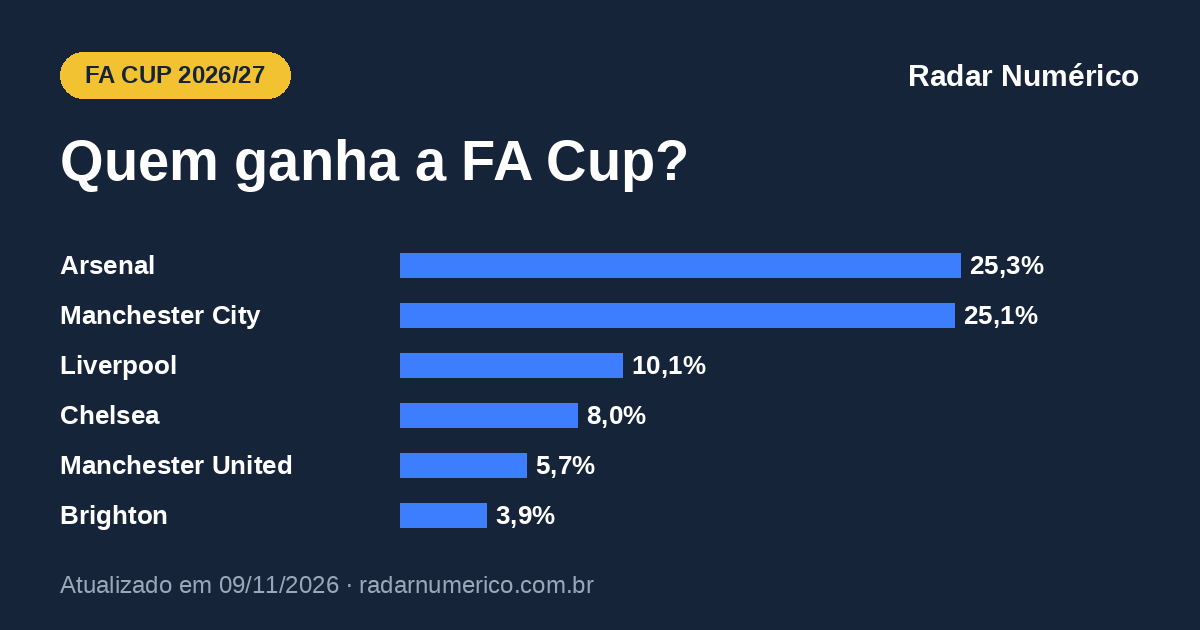
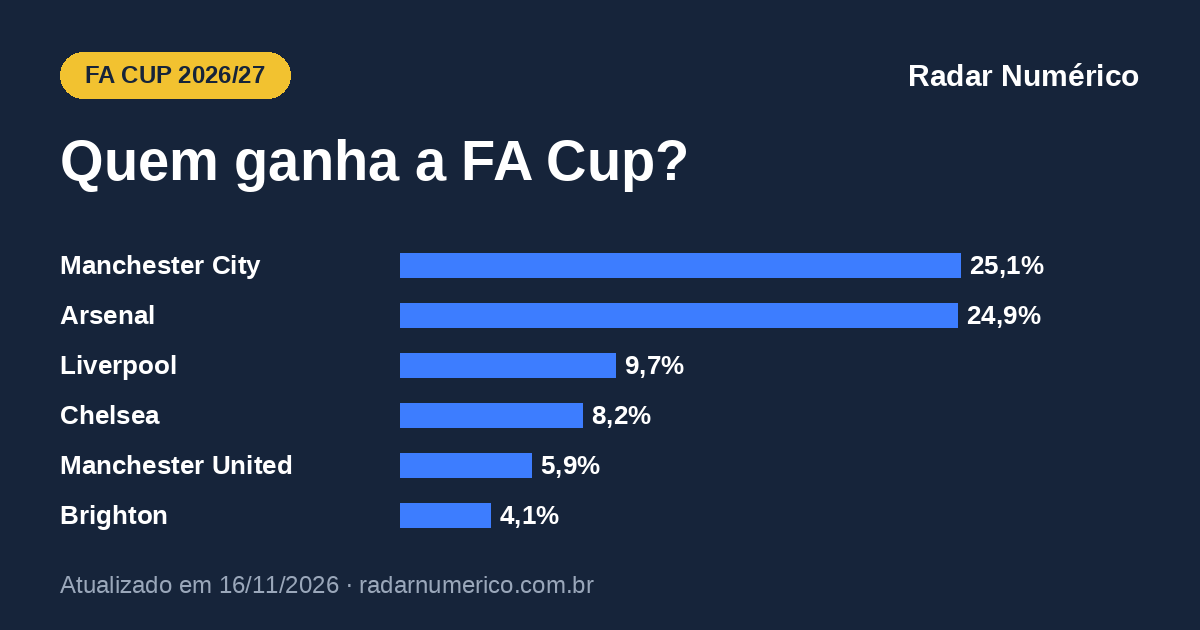
Ranking, ligas e copas europeias: atualização semanal 2026-11-16 - futebol/fa-cup
Claude-Session: https://claude.ai/code/session_014c9M3pK5duiRyMmHPvLuVq

diff --git a/futebol/fa-cup/index.html b/futebol/fa-cup/index.html
@@ -13,11 +13,11 @@
 <meta property="og:title" content="FA Cup 2026/27: chances de título de cada time">
 <meta property="og:description" content="Probabilidades da FA Cup 2026/27: chance de cada time chegar às quartas, à semifinal, à final e de ser campeão.">
 <meta property="og:url" content="https://radarnumerico.com.br/futebol/fa-cup/">
-<meta property="og:image" content="https://radarnumerico.com.br/futebol/fa-cup/og.png?v=202611091007">
+<meta property="og:image" content="https://radarnumerico.com.br/futebol/fa-cup/og.png?v=202611160810">
 <meta property="og:image:width" content="1200">
 <meta property="og:image:height" content="630">
 <meta name="twitter:card" content="summary_large_image">
-<script type="application/ld+json">{"@context": "https://schema.org", "@graph": [{"@type": "WebPage", "@id": "https://radarnumerico.com.br/futebol/fa-cup/", "url": "https://radarnumerico.com.br/futebol/fa-cup/", "name": "FA Cup 2026/27: chances de título de cada time", "description": "Probabilidades da FA Cup 2026/27: chance de cada time chegar às quartas, à semifinal, à final e de ser campeão.", "inLanguage": "pt-BR", "dateModified": "2026-11-09T10:07:00-03:00", "isPartOf": {"@type": "WebSite", "name": "Radar Numérico", "url": "https://radarnumerico.com.br/"}, "about": {"@type": "Thing", "name": "FA Cup 2026/27"}}, {"@type": "BreadcrumbList", "itemListElement": [{"@type": "ListItem", "position": 1, "name": "Radar Numérico", "item": "https://radarnumerico.com.br/"}, {"@type": "ListItem", "position": 2, "name": "FA Cup 2026/27: probabilidades", "item": "https://radarnumerico.com.br/futebol/fa-cup/"}]}]}</script>
+<script type="application/ld+json">{"@context": "https://schema.org", "@graph": [{"@type": "WebPage", "@id": "https://radarnumerico.com.br/futebol/fa-cup/", "url": "https://radarnumerico.com.br/futebol/fa-cup/", "name": "FA Cup 2026/27: chances de título de cada time", "description": "Probabilidades da FA Cup 2026/27: chance de cada time chegar às quartas, à semifinal, à final e de ser campeão.", "inLanguage": "pt-BR", "dateModified": "2026-11-16T08:10:00-03:00", "isPartOf": {"@type": "WebSite", "name": "Radar Numérico", "url": "https://radarnumerico.com.br/"}, "about": {"@type": "Thing", "name": "FA Cup 2026/27"}}, {"@type": "BreadcrumbList", "itemListElement": [{"@type": "ListItem", "position": 1, "name": "Radar Numérico", "item": "https://radarnumerico.com.br/"}, {"@type": "ListItem", "position": 2, "name": "FA Cup 2026/27: probabilidades", "item": "https://radarnumerico.com.br/futebol/fa-cup/"}]}]}</script>
 <link rel="icon" type="image/png" href="/favicon.png">
 <link rel="apple-touch-icon" href="/apple-touch-icon.png">
 <link rel="preconnect" href="https://fonts.googleapis.com">
@@ -307,7 +307,8 @@ footer.site a{color:var(--ink2)}
 .simaviso .btn{margin-left:auto;background:var(--bg)}
 .slh{display:flex;flex-wrap:wrap;align-items:end;justify-content:space-between;gap:10px 16px;margin:26px 0 12px}
 .slh h3{margin:0}
-.slh select{min-width:200px;font-size:14.5px;padding:8px 34px 8px 12px}
+.slh select{min-width:200px;max-width:100%;font-size:14.5px;padding:8px 34px 8px 12px}
+.slh>div{min-width:0;max-width:100%}
 .sl{display:grid;grid-template-columns:repeat(2,minmax(0,1fr));gap:8px 12px}
 .slj{border:1.5px solid var(--hair);padding:8px 10px;display:grid;grid-template-columns:minmax(0,1fr) auto minmax(0,1fr);gap:6px 8px;align-items:center;min-width:0}
 .slj.fix{border-color:var(--azul)}
@@ -335,6 +336,16 @@ table.cl tr:hover td{background:var(--panel)}
 .mv.s{color:var(--downfg)} .mv.d{color:var(--upfg)}
 .dl{display:block;font-size:10.5px;font-weight:700}
 .dl.bom{color:var(--downfg)} .dl.ruim{color:var(--upfg)}
+.slc{grid-column:1/-1;border:1.5px solid var(--hair);padding:10px 12px;min-width:0}
+.slc .slq{display:flex;justify-content:space-between;font-size:11px;color:var(--mute)}
+.slc p{margin:6px 0 10px;font-size:13.5px;line-height:1.45;color:var(--ink2);max-width:70ch}
+.slcb{display:flex;flex-wrap:wrap;gap:8px}
+.slco{font:inherit;font-size:14px;font-weight:700;border:1.5px solid var(--hair);background:none;color:var(--ink);padding:8px 12px;cursor:pointer;text-align:left;display:flex;flex-direction:column;gap:2px}
+.slco small{font-weight:500;font-size:11.5px;color:var(--mute)}
+.slco:hover{border-color:var(--ink2)}
+.slco.on{border-color:var(--azul);box-shadow:inset 0 0 0 1px var(--azul)}
+.slco:focus-visible{outline:2px solid var(--azul);outline-offset:2px}
+.simlink{margin:-2px 0 12px;font-size:13px} .simlink a{color:var(--ink2);font-weight:600;text-underline-offset:2px}
 @media (max-width:640px){
   .rd{grid-template-columns:1fr}
   .at,.at.n3{grid-template-columns:repeat(2,minmax(0,1fr))} .at.n1{grid-template-columns:1fr}
@@ -430,8 +441,8 @@ table.mzf td.bc{color:#fff}
 <header class="pg">
   <div class="kicker">Futebol · Inglaterra</div>
   <h1>FA Cup 2026/27: chances de título de cada time</h1>
-  <div class="selo" id="selo"><span>Atualizado em <b>09/11/2026 às 10h07</b></span><span>fase atual: <b>3ª fase</b></span><span>44 times vivos</span></div>
-  <p class="lede">O favorito ao título da FA Cup é o <b>Arsenal</b>, com 25,3%, seguido por Manchester City (25,1%) e Liverpool (10,1%). Calculamos, para os 44 times vivos, a chance de chegar a cada fase, simulando os jogos já marcados e o sorteio das fases seguintes 20 mil vezes. O campeão ganha vaga na Liga Europa.</p>
+  <div class="selo" id="selo"><span>Atualizado em <b>16/11/2026 às 08h10</b></span><span>fase atual: <b>3ª fase</b></span><span>44 times vivos</span></div>
+  <p class="lede">O favorito ao título da FA Cup é o <b>Manchester City</b>, com 25,1%, seguido por Arsenal (24,9%) e Liverpool (9,7%). Calculamos, para os 44 times vivos, a chance de chegar a cada fase, simulando os jogos já marcados e o sorteio das fases seguintes 20 mil vezes. O campeão ganha vaga na Liga Europa.</p>
 </header>
 
 <section class="g" id="s-trilha">
@@ -489,7 +500,7 @@ table.mzf td.bc{color:#fff}
 
 <div class="metod">
   <p class="marca">Radar Numérico</p>
-  <p id="rodape">Probabilidades da FA Cup 2026/27 atualizadas em 09/11/2026 às 10h07.</p>
+  <p id="rodape">Probabilidades da FA Cup 2026/27 atualizadas em 16/11/2026 às 08h10.</p>
   <p>Como calculamos: um algoritmo desenvolvido pelo economista Augusto Pellegrini estima a força de cada time a partir das cotações de mercado de todos os seus jogos recentes, em todas as competições. Simulamos a copa 20 mil vezes: os jogos já marcados e, depois, o sorteio de cada fase. Empate em jogo único vai à prorrogação e aos pênaltis. Fonte: Radar Numérico.</p>
 </div>
 </main>
@@ -498,7 +509,7 @@ table.mzf td.bc{color:#fff}
 <div id="tip" role="tooltip"></div>
 <div id="toast" role="status"></div>
 <script>
-const D = {"slug":"fa-cup","nome":"FA Cup","gerado_em":"2026-11-09T10:07","tams":[64,32,16,8,4,2,1],"rot":["3ª fase","4ª fase","5ª fase","Quartas","Semifinal","Final","Campeão"],"atual_rot":"3ª fase","cai_antes":"","n_vivos":44,"times":{"Middlesbrough":{"id":"2307","fases":[1.0,0.6649,0.3749,0.1722,0.064,0.0174,0.0027],"campeao":0.0027,"forca":53.1,"cab":false},"Bolton Wanderers":{"id":"2312","fases":[1.0,0.409,0.1295,0.029,0.0046,0.0006,0.0001],"campeao":0.0001,"forca":38.2,"cab":false},"Blackburn Rovers":{"id":"2322","fases":[1.0,0.4727,0.171,0.0425,0.0086,0.0013,0.0001],"campeao":0.0001,"forca":41.5,"cab":false},"Sheffield United":{"id":"3863","fases":[1.0,0.5147,0.2062,0.0603,0.0135,0.002,0.0002],"campeao":0.0002,"forca":44.2,"cab":false},"Bristol City":{"id":"2328","fases":[1.0,0.4961,0.1906,0.0529,0.0105,0.0014,0.0001],"campeao":0.0001,"forca":43.1,"cab":false},"Coventry City":{"id":"2330","fases":[1.0,0.6028,0.2977,0.1163,0.0343,0.0077,0.0014],"campeao":0.0014,"forca":49.2,"cab":false},"Cardiff City":{"id":"2331","fases":[1.0,0.5107,0.2028,0.0625,0.0138,0.0022,0.0003],"campeao":0.0003,"forca":44.2,"cab":false},"Brentford":{"id":"2333","fases":[1.0,0.7875,0.5646,0.3567,0.1968,0.0927,0.0344],"campeao":0.0344,"forca":62.1,"cab":false},"Ipswich":{"id":"2336","fases":[1.0,0.6334,0.3336,0.1416,0.048,0.0129,0.0025],"campeao":0.0025,"forca":51.1,"cab":false},"Wolverhampton":{"id":"2337","fases":[1.0,0.5652,0.2595,0.0924,0.0256,0.0054,0.0008],"campeao":0.0008,"forca":47.2,"cab":false},"Wrexham":{"id":"3875","fases":[1.0,0.5165,0.2189,0.069,0.015,0.0024,0.0005],"campeao":0.0005,"forca":44.8,"cab":false},"Bournemouth":{"id":"2342","fases":[1.0,0.7622,0.5212,0.3137,0.1603,0.0681,0.0249],"campeao":0.0249,"forca":60.3,"cab":false},"Watford":{"id":"2344","fases":[1.0,0.4271,0.1389,0.0336,0.0056,0.0006,0.0],"campeao":0.0,"forca":39.3,"cab":false},"Portsmouth":{"id":"2345","fases":[1.0,0.4243,0.1361,0.0315,0.0057,0.0008,0.0001],"campeao":0.0001,"forca":39.0,"cab":false},"Millwall":{"id":"2347","fases":[1.0,0.4507,0.1524,0.0388,0.0069,0.0009,0.0001],"campeao":0.0001,"forca":40.4,"cab":false},"Burnley":{"id":"2352","fases":[1.0,0.5111,0.2082,0.0653,0.0147,0.0029,0.0001],"campeao":0.0001,"forca":43.9,"cab":false},"Chelsea":{"id":"2354","fases":[1.0,0.84,0.6509,0.4528,0.2863,0.161,0.0801],"campeao":0.0801,"forca":66.5,"cab":false},"Manchester United":{"id":"2356","fases":[1.0,0.8164,0.6129,0.4133,0.2456,0.129,0.057],"campeao":0.057,"forca":64.9,"cab":false},"Swansea City":{"id":"2358","fases":[1.0,0.4473,0.1527,0.0368,0.006,0.0003,0.0],"campeao":0.0,"forca":40.2,"cab":false},"Stoke City":{"id":"2359","fases":[1.0,0.4998,0.1979,0.058,0.0124,0.001,0.0003],"campeao":0.0003,"forca":43.4,"cab":false},"Aston Villa":{"id":"2361","fases":[1.0,0.7531,0.5091,0.2979,0.1479,0.0595,0.0214],"campeao":0.0214,"forca":59.7,"cab":false},"West Bromwich Albion":{"id":"2363","fases":[1.0,0.4812,0.1825,0.0508,0.01,0.0015,0.0001],"campeao":0.0001,"forca":42.7,"cab":false},"Sunderland":{"id":"2364","fases":[1.0,0.6971,0.4168,0.206,0.0806,0.0255,0.0069],"campeao":0.0069,"forca":55.2,"cab":false},"West Ham":{"id":"2365","fases":[1.0,0.6828,0.3967,0.1905,0.076,0.0238,0.006],"campeao":0.006,"forca":54.6,"cab":false},"Tottenham":{"id":"2366","fases":[1.0,0.7722,0.5352,0.319,0.1587,0.0693,0.0256],"campeao":0.0256,"forca":60.5,"cab":false},"Stockport County":{"id":"3904","fases":[1.0,0.4502,0.1555,0.0398,0.007,0.0011,0.0],"campeao":0.0,"forca":40.4,"cab":false},"Charlton Athletic":{"id":"2390","fases":[1.0,0.424,0.1372,0.0307,0.005,0.0006,0.0],"campeao":0.0,"forca":39.2,"cab":false},"Fulham":{"id":"2392","fases":[1.0,0.7297,0.462,0.2514,0.1144,0.0419,0.0128],"campeao":0.0128,"forca":57.7,"cab":false},"Birmingham":{"id":"2393","fases":[1.0,0.5776,0.2717,0.0962,0.0257,0.0059,0.0011],"campeao":0.0011,"forca":47.9,"cab":false},"Leeds":{"id":"2394","fases":[1.0,0.7335,0.4744,0.2591,0.1203,0.0463,0.014],"campeao":0.014,"forca":58.1,"cab":false},"Nottingham Forest":{"id":"2395","fases":[1.0,0.7127,0.445,0.2334,0.1004,0.0377,0.012],"campeao":0.012,"forca":56.7,"cab":false},"Norwich":{"id":"2411","fases":[1.0,0.529,0.2219,0.0694,0.0168,0.0031,0.0004],"campeao":0.0004,"forca":45.2,"cab":false},"Derby County":{"id":"1162","fases":[1.0,0.4384,0.149,0.0353,0.0069,0.001,0.0001],"campeao":0.0001,"forca":39.9,"cab":false},"Queens Park Rangers":{"id":"1163","fases":[1.0,0.4617,0.1636,0.0427,0.0088,0.0011,0.0001],"campeao":0.0001,"forca":41.2,"cab":false},"Brighton":{"id":"2497","fases":[1.0,0.7965,0.5712,0.3614,0.1976,0.0934,0.0389],"campeao":0.0389,"forca":62.6,"cab":false},"Leicester City":{"id":"2525","fases":[1.0,0.4733,0.1673,0.045,0.008,0.0011,0.0001],"campeao":0.0001,"forca":41.3,"cab":false},"Everton":{"id":"2526","fases":[1.0,0.7228,0.4576,0.2515,0.1149,0.043,0.012],"campeao":0.012,"forca":57.6,"cab":false},"Newcastle":{"id":"2527","fases":[1.0,0.7837,0.5562,0.344,0.1839,0.0844,0.0323],"campeao":0.0323,"forca":61.6,"cab":false},"Manchester City":{"id":"2528","fases":[1.0,0.9079,0.7878,0.647,0.4985,0.3618,0.2507],"campeao":0.2507,"forca":74.1,"cab":false},"Arsenal":{"id":"2536","fases":[1.0,0.9024,0.7842,0.6468,0.4981,0.3653,0.2532],"campeao":0.2532,"forca":74.1,"cab":false},"Crystal Palace":{"id":"2537","fases":[1.0,0.66,0.3682,0.1696,0.0621,0.0177,0.0042],"campeao":0.0042,"forca":53.2,"cab":false},"Liverpool":{"id":"2538","fases":[1.0,0.8488,0.6701,0.4881,0.3212,0.1921,0.1008],"campeao":0.1008,"forca":67.8,"cab":false},"Southampton":{"id":"2539","fases":[1.0,0.5945,0.2897,0.1119,0.0326,0.0076,0.0012],"campeao":0.0012,"forca":48.9,"cab":false},"Hull City":{"id":"2540","fases":[1.0,0.5333,0.2333,0.0772,0.0195,0.004,0.0004],"campeao":0.0004,"forca":45.6,"cab":false}},"ordem":["Arsenal","Manchester City","Liverpool","Chelsea","Manchester United","Brighton","Brentford","Newcastle","Tottenham","Bournemouth","Aston Villa","Leeds","Fulham","Everton","Nottingham Forest","Sunderland","West Ham","Crystal Palace","Middlesbrough","Ipswich","Coventry City","Southampton","Birmingham","Wolverhampton","Wrexham","Hull City","Norwich","Cardiff City","Stoke City","Sheffield United","Burnley","Bristol City","West Bromwich Albion","Blackburn Rovers","Leicester City","Queens Park Rangers","Millwall","Derby County","Portsmouth","Bolton Wanderers","Stockport County","Swansea City","Watford","Charlton Athletic"],"confrontos":[],"finais":[{"a":"Manchester City","b":"Arsenal","p":0.0854,"pa":0.5117},{"a":"Manchester City","b":"Liverpool","p":0.0429,"pa":0.641},{"a":"Arsenal","b":"Liverpool","p":0.0416,"pa":0.6454},{"a":"Chelsea","b":"Arsenal","p":0.0365,"pa":0.3338},{"a":"Chelsea","b":"Manchester City","p":0.0341,"pa":0.3514},{"a":"Manchester United","b":"Arsenal","p":0.0301,"pa":0.2691}],"outros":0.0001,"matriz":{"tipo":"sorteio","linhas":[["Arsenal",0.3653],["Manchester City",0.3618],["Liverpool",0.1921],["Chelsea",0.161],["Manchester United",0.129]],"colunas":[["Manchester City",0.3618],["Liverpool",0.1921],["Chelsea",0.161],["Manchester United",0.129],["Brighton",0.0934]],"cel":[[0.0854,0.0416,0.0365,0.0301,0.0196],[null,0.0429,0.0341,0.0266,0.0209],[null,null,0.0168,0.0127,0.0097],[null,null,null,0.0106,0.0072],[null,null,null,null,0.0057]]},"chave":{"fases":["4ª fase","5ª fase","Quartas","Semifinal","Final"],"jogos":[[null,null],[null,null],[null,null],[null,null],[null,null],[null,null],[null,null],[null,null],[null,null],[null,null],[null,null],[null,null],[null,null],[null,null],[null,null],[null,null]],"atual":false,"p":null,"fixa":false},"SIGLA":{"Middlesbrough":"MID","Bolton Wanderers":"BOL","Blackburn Rovers":"BLA","Sheffield United":"SHE","Bristol City":"BRI","Coventry City":"COV","Cardiff City":"CAR","Brentford":"BRE","Ipswich":"IPS","Wolverhampton":"WOL","Wrexham":"WRE","Bournemouth":"BOU","Watford":"WAT","Portsmouth":"POR","Millwall":"MIL","Burnley":"BUR","Chelsea":"CHE","Manchester United":"MUN","Swansea City":"SWA","Stoke City":"STO","Aston Villa":"AVL","West Bromwich Albion":"WES","Sunderland":"SUN","West Ham":"WES","Tottenham":"TOT","Stockport County":"STO","Charlton Athletic":"CHA","Fulham":"FUL","Birmingham":"BIR","Leeds":"LEE","Nottingham Forest":"NOT","Norwich":"NOR","Derby County":"DER","Queens Park Rangers":"QUE","Brighton":"BRI","Leicester City":"LEI","Everton":"EVE","Newcastle":"NEW","Manchester City":"MCI","Arsenal":"ARS","Crystal Palace":"CRY","Liverpool":"LIV","Southampton":"SOU","Hull City":"HUL"},"SLUG":{"Middlesbrough":"middlesbrough","Bolton Wanderers":"bolton-wanderers","Blackburn Rovers":"blackburn-rovers","Sheffield United":"sheffield-united","Bristol City":"bristol-city","Coventry City":"coventry-city","Cardiff City":"cardiff-city","Brentford":"brentford","Ipswich":"ipswich","Wolverhampton":"wolverhampton","Wrexham":"wrexham","Bournemouth":"bournemouth","Watford":"watford","Portsmouth":"portsmouth","Millwall":"millwall","Burnley":"burnley","Chelsea":"chelsea","Manchester United":"manchester-united","Swansea City":"swansea-city","Stoke City":"stoke-city","Aston Villa":"aston-villa","West Bromwich Albion":"west-bromwich-albion","Sunderland":"sunderland","West Ham":"west-ham","Tottenham":"tottenham","Stockport County":"stockport-county","Charlton Athletic":"charlton-athletic","Fulham":"fulham","Birmingham":"birmingham","Leeds":"leeds","Nottingham Forest":"nottingham-forest","Norwich":"norwich","Derby County":"derby-county","Queens Park Rangers":"queens-park-rangers","Brighton":"brighton","Leicester City":"leicester-city","Everton":"everton","Newcastle":"newcastle","Manchester City":"manchester-city","Arsenal":"arsenal","Crystal Palace":"crystal-palace","Liverpool":"liverpool","Southampton":"southampton","Hull City":"hull-city"},"CORES":{"Middlesbrough":["#00843D","#FFFFFF"],"Bolton Wanderers":["#00843D","#FFFFFF"],"Blackburn Rovers":["#5B2C83","#FFFFFF"],"Sheffield United":["#F2C230","#FFFFFF"],"Bristol City":["#111111","#FFFFFF"],"Coventry City":["#5B2C83","#FFFFFF"],"Cardiff City":["#E35205","#FFFFFF"],"Brentford":["#6C1D45","#FFFFFF"],"Ipswich":["#3EA6DD","#FFFFFF"],"Wolverhampton":["#E35205","#FFFFFF"],"Wrexham":["#0055A4","#FFFFFF"],"Bournemouth":["#111111","#FFFFFF"],"Watford":["#3EA6DD","#FFFFFF"],"Portsmouth":["#00843D","#FFFFFF"],"Millwall":["#16243A","#FFFFFF"],"Burnley":["#3EA6DD","#FFFFFF"],"Chelsea":["#00843D","#FFFFFF"],"Manchester United":["#DA291C","#FBE122"],"Swansea City":["#00843D","#FFFFFF"],"Stoke City":["#5B2C83","#FFFFFF"],"Aston Villa":["#670E36","#95BFE5"],"West Bromwich Albion":["#3EA6DD","#FFFFFF"],"Sunderland":["#16243A","#FFFFFF"],"West Ham":["#5B2C83","#FFFFFF"],"Tottenham":["#E35205","#FFFFFF"],"Stockport County":["#00843D","#FFFFFF"],"Charlton Athletic":["#00843D","#FFFFFF"],"Fulham":["#F2C230","#FFFFFF"],"Birmingham":["#0055A4","#FFFFFF"],"Leeds":["#00843D","#FFFFFF"],"Nottingham Forest":["#E35205","#FFFFFF"],"Norwich":["#16243A","#FFFFFF"],"Derby County":["#111111","#FFFFFF"],"Queens Park Rangers":["#5B2C83","#FFFFFF"],"Brighton":["#5B2C83","#FFFFFF"],"Leicester City":["#5B2C83","#FFFFFF"],"Everton":["#5B2C83","#FFFFFF"],"Newcastle":["#6C1D45","#FFFFFF"],"Manchester City":["#6CABDD","#1C2C5B"],"Arsenal":["#EF0107","#FFFFFF"],"Crystal Palace":["#0055A4","#FFFFFF"],"Liverpool":["#C8102E","#00B2A9"],"Southampton":["#111111","#FFFFFF"],"Hull City":["#111111","#FFFFFF"]},"vaga":"Liga Europa","liga":"premier-league","liga_nome":"Premier League","nota_fase":"Os times da Premier League e da Championship entram na 3ª fase, em janeiro. A chave parte dos 64 times dessa fase; os clubes das divisões de baixo que vão chegar até lá ainda estão nas fases anteriores e entram na conta como times genéricos.","final":"Final em Wembley, em maio de 2027, em jogo único.","ultimo_jogo":{"data":"2026-11-08","hora":"14:15","m":"Oldham","v":"Sheffield Wednesday","gm":2,"gv":1,"rodada":"Round 1"}};
+const D = {"slug":"fa-cup","nome":"FA Cup","gerado_em":"2026-11-16T08:10","tams":[64,32,16,8,4,2,1],"rot":["3ª fase","4ª fase","5ª fase","Quartas","Semifinal","Final","Campeão"],"atual_rot":"3ª fase","cai_antes":"","n_vivos":44,"times":{"Middlesbrough":{"id":"2307","fases":[1.0,0.6623,0.3755,0.1726,0.0642,0.0175,0.0037],"campeao":0.0037,"forca":53.2,"cab":false},"Bolton Wanderers":{"id":"2312","fases":[1.0,0.4073,0.1263,0.0285,0.0047,0.0007,0.0001],"campeao":0.0001,"forca":38.3,"cab":false},"Blackburn Rovers":{"id":"2322","fases":[1.0,0.4672,0.1689,0.0444,0.009,0.001,0.0],"campeao":0.0,"forca":41.6,"cab":false},"Sheffield United":{"id":"3863","fases":[1.0,0.5131,0.2057,0.0618,0.0135,0.0024,0.0002],"campeao":0.0002,"forca":44.3,"cab":false},"Bristol City":{"id":"2328","fases":[1.0,0.499,0.1926,0.0546,0.0112,0.0016,0.0001],"campeao":0.0001,"forca":43.2,"cab":false},"Coventry City":{"id":"2330","fases":[1.0,0.6058,0.298,0.1193,0.0369,0.0083,0.0016],"campeao":0.0016,"forca":49.3,"cab":false},"Cardiff City":{"id":"2331","fases":[1.0,0.512,0.205,0.0609,0.0132,0.0018,0.0003],"campeao":0.0003,"forca":44.3,"cab":false},"Brentford":{"id":"2333","fases":[1.0,0.7882,0.5616,0.3527,0.1907,0.0892,0.0336],"campeao":0.0336,"forca":62.2,"cab":false},"Ipswich":{"id":"2336","fases":[1.0,0.6309,0.3313,0.1416,0.0464,0.0131,0.0024],"campeao":0.0024,"forca":51.2,"cab":false},"Wolverhampton":{"id":"2337","fases":[1.0,0.5647,0.2613,0.0931,0.0263,0.0054,0.0007],"campeao":0.0007,"forca":47.3,"cab":false},"Wrexham":{"id":"3875","fases":[1.0,0.5193,0.2196,0.0681,0.0143,0.0025,0.0002],"campeao":0.0002,"forca":44.9,"cab":false},"Bournemouth":{"id":"2342","fases":[1.0,0.7644,0.5208,0.3116,0.1582,0.0682,0.0245],"campeao":0.0245,"forca":60.4,"cab":false},"Watford":{"id":"2344","fases":[1.0,0.4328,0.1417,0.032,0.0053,0.0007,0.0001],"campeao":0.0001,"forca":39.4,"cab":false},"Portsmouth":{"id":"2345","fases":[1.0,0.4253,0.1375,0.0318,0.005,0.0004,0.0],"campeao":0.0,"forca":39.0,"cab":false},"Millwall":{"id":"2347","fases":[1.0,0.4491,0.1538,0.0384,0.0058,0.0008,0.0001],"campeao":0.0001,"forca":40.5,"cab":false},"Burnley":{"id":"2352","fases":[1.0,0.5127,0.2107,0.0646,0.0142,0.0024,0.0001],"campeao":0.0001,"forca":44.0,"cab":false},"Chelsea":{"id":"2354","fases":[1.0,0.8401,0.6507,0.4546,0.2877,0.163,0.0817],"campeao":0.0817,"forca":66.5,"cab":false},"Manchester United":{"id":"2356","fases":[1.0,0.8152,0.6119,0.4131,0.2437,0.1292,0.0588],"campeao":0.0588,"forca":65.0,"cab":false},"Swansea City":{"id":"2358","fases":[1.0,0.45,0.1535,0.0374,0.0068,0.0008,0.0001],"campeao":0.0001,"forca":40.3,"cab":false},"Stoke City":{"id":"2359","fases":[1.0,0.5022,0.1975,0.0575,0.012,0.0016,0.0004],"campeao":0.0004,"forca":43.5,"cab":false},"Aston Villa":{"id":"2361","fases":[1.0,0.7496,0.5021,0.2905,0.1436,0.059,0.021],"campeao":0.021,"forca":59.8,"cab":false},"West Bromwich Albion":{"id":"2363","fases":[1.0,0.4849,0.1883,0.0524,0.0103,0.0014,0.0001],"campeao":0.0001,"forca":42.7,"cab":false},"Sunderland":{"id":"2364","fases":[1.0,0.6966,0.4128,0.2049,0.0833,0.0256,0.0073],"campeao":0.0073,"forca":55.3,"cab":false},"West Ham":{"id":"2365","fases":[1.0,0.6846,0.4014,0.1964,0.0765,0.0246,0.0061],"campeao":0.0061,"forca":54.7,"cab":false},"Tottenham":{"id":"2366","fases":[1.0,0.7678,0.5291,0.3162,0.161,0.0703,0.0261],"campeao":0.0261,"forca":60.6,"cab":false},"Stockport County":{"id":"3904","fases":[1.0,0.4482,0.1553,0.0384,0.0065,0.0011,0.0001],"campeao":0.0001,"forca":40.5,"cab":false},"Charlton Athletic":{"id":"2390","fases":[1.0,0.4252,0.1377,0.0313,0.0046,0.0006,0.0001],"campeao":0.0001,"forca":39.2,"cab":false},"Fulham":{"id":"2392","fases":[1.0,0.7279,0.4626,0.2549,0.1161,0.0425,0.0132],"campeao":0.0132,"forca":57.7,"cab":false},"Birmingham":{"id":"2393","fases":[1.0,0.5767,0.2691,0.0946,0.0256,0.0059,0.0011],"campeao":0.0011,"forca":48.0,"cab":false},"Leeds":{"id":"2394","fases":[1.0,0.7306,0.476,0.2619,0.1232,0.0481,0.015],"campeao":0.015,"forca":58.2,"cab":false},"Nottingham Forest":{"id":"2395","fases":[1.0,0.7106,0.4435,0.2352,0.1013,0.0355,0.0111],"campeao":0.0111,"forca":56.8,"cab":false},"Norwich":{"id":"2411","fases":[1.0,0.5256,0.2233,0.071,0.017,0.0026,0.0003],"campeao":0.0003,"forca":45.3,"cab":false},"Derby County":{"id":"1162","fases":[1.0,0.4414,0.148,0.0359,0.0061,0.0008,0.0001],"campeao":0.0001,"forca":40.0,"cab":false},"Queens Park Rangers":{"id":"1163","fases":[1.0,0.4643,0.1699,0.0434,0.008,0.0009,0.0001],"campeao":0.0001,"forca":41.3,"cab":false},"Brighton":{"id":"2497","fases":[1.0,0.7954,0.5746,0.3666,0.2031,0.0966,0.0406],"campeao":0.0406,"forca":62.6,"cab":false},"Leicester City":{"id":"2525","fases":[1.0,0.4702,0.1661,0.0423,0.0084,0.0012,0.0001],"campeao":0.0001,"forca":41.4,"cab":false},"Everton":{"id":"2526","fases":[1.0,0.7264,0.4591,0.2517,0.1137,0.0435,0.0123],"campeao":0.0123,"forca":57.7,"cab":false},"Newcastle":{"id":"2527","fases":[1.0,0.7827,0.5536,0.3432,0.187,0.0848,0.0341],"campeao":0.0341,"forca":61.7,"cab":false},"Manchester City":{"id":"2528","fases":[1.0,0.9055,0.7832,0.6434,0.5003,0.365,0.2507],"campeao":0.2507,"forca":74.1,"cab":false},"Arsenal":{"id":"2536","fases":[1.0,0.9013,0.7853,0.6455,0.4972,0.3626,0.2494],"campeao":0.2494,"forca":74.2,"cab":false},"Crystal Palace":{"id":"2537","fases":[1.0,0.6634,0.3726,0.1719,0.0624,0.0177,0.0043],"campeao":0.0043,"forca":53.3,"cab":false},"Liverpool":{"id":"2538","fases":[1.0,0.8458,0.6688,0.4865,0.3169,0.188,0.0966],"campeao":0.0966,"forca":67.9,"cab":false},"Southampton":{"id":"2539","fases":[1.0,0.5925,0.2925,0.1124,0.0323,0.0078,0.0015],"campeao":0.0015,"forca":49.0,"cab":false},"Hull City":{"id":"2540","fases":[1.0,0.5346,0.2354,0.0773,0.0198,0.003,0.0002],"campeao":0.0002,"forca":45.7,"cab":false}},"ordem":["Manchester City","Arsenal","Liverpool","Chelsea","Manchester United","Brighton","Newcastle","Brentford","Tottenham","Bournemouth","Aston Villa","Leeds","Fulham","Everton","Nottingham Forest","Sunderland","West Ham","Crystal Palace","Middlesbrough","Ipswich","Coventry City","Southampton","Birmingham","Wolverhampton","Stoke City","Norwich","Cardiff City","Hull City","Wrexham","Sheffield United","Burnley","Bristol City","West Bromwich Albion","Leicester City","Queens Park Rangers","Millwall","Stockport County","Swansea City","Derby County","Watford","Charlton Athletic","Bolton Wanderers","Blackburn Rovers","Portsmouth"],"confrontos":[],"finais":[{"a":"Manchester City","b":"Arsenal","p":0.0862,"pa":0.4933},{"a":"Arsenal","b":"Liverpool","p":0.043,"pa":0.6388},{"a":"Manchester City","b":"Liverpool","p":0.0408,"pa":0.6438},{"a":"Chelsea","b":"Arsenal","p":0.0366,"pa":0.3265},{"a":"Chelsea","b":"Manchester City","p":0.036,"pa":0.3384},{"a":"Manchester United","b":"Arsenal","p":0.0294,"pa":0.3152}],"outros":0.0,"matriz":{"tipo":"sorteio","linhas":[["Manchester City",0.365],["Arsenal",0.3626],["Liverpool",0.188],["Chelsea",0.163],["Manchester United",0.1292]],"colunas":[["Arsenal",0.3626],["Liverpool",0.188],["Chelsea",0.163],["Manchester United",0.1292],["Brighton",0.0966]],"cel":[[0.0862,0.0408,0.036,0.0278,0.0226],[null,0.043,0.0366,0.0294,0.02],[null,null,0.0146,0.0131,0.0088],[null,null,null,0.0114,0.0076],[null,null,null,null,0.006]]},"chave":{"fases":["4ª fase","5ª fase","Quartas","Semifinal","Final"],"jogos":[[null,null],[null,null],[null,null],[null,null],[null,null],[null,null],[null,null],[null,null],[null,null],[null,null],[null,null],[null,null],[null,null],[null,null],[null,null],[null,null]],"atual":false,"p":null,"fixa":false},"SIGLA":{"Middlesbrough":"MID","Bolton Wanderers":"BOL","Blackburn Rovers":"BLA","Sheffield United":"SHE","Bristol City":"BRI","Coventry City":"COV","Cardiff City":"CAR","Brentford":"BRE","Ipswich":"IPS","Wolverhampton":"WOL","Wrexham":"WRE","Bournemouth":"BOU","Watford":"WAT","Portsmouth":"POR","Millwall":"MIL","Burnley":"BUR","Chelsea":"CHE","Manchester United":"MUN","Swansea City":"SWA","Stoke City":"STO","Aston Villa":"AVL","West Bromwich Albion":"WES","Sunderland":"SUN","West Ham":"WES","Tottenham":"TOT","Stockport County":"STO","Charlton Athletic":"CHA","Fulham":"FUL","Birmingham":"BIR","Leeds":"LEE","Nottingham Forest":"NOT","Norwich":"NOR","Derby County":"DER","Queens Park Rangers":"QUE","Brighton":"BRI","Leicester City":"LEI","Everton":"EVE","Newcastle":"NEW","Manchester City":"MCI","Arsenal":"ARS","Crystal Palace":"CRY","Liverpool":"LIV","Southampton":"SOU","Hull City":"HUL"},"SLUG":{"Middlesbrough":"middlesbrough","Bolton Wanderers":"bolton-wanderers","Blackburn Rovers":"blackburn-rovers","Sheffield United":"sheffield-united","Bristol City":"bristol-city","Coventry City":"coventry-city","Cardiff City":"cardiff-city","Brentford":"brentford","Ipswich":"ipswich","Wolverhampton":"wolverhampton","Wrexham":"wrexham","Bournemouth":"bournemouth","Watford":"watford","Portsmouth":"portsmouth","Millwall":"millwall","Burnley":"burnley","Chelsea":"chelsea","Manchester United":"manchester-united","Swansea City":"swansea-city","Stoke City":"stoke-city","Aston Villa":"aston-villa","West Bromwich Albion":"west-bromwich-albion","Sunderland":"sunderland","West Ham":"west-ham","Tottenham":"tottenham","Stockport County":"stockport-county","Charlton Athletic":"charlton-athletic","Fulham":"fulham","Birmingham":"birmingham","Leeds":"leeds","Nottingham Forest":"nottingham-forest","Norwich":"norwich","Derby County":"derby-county","Queens Park Rangers":"queens-park-rangers","Brighton":"brighton","Leicester City":"leicester-city","Everton":"everton","Newcastle":"newcastle","Manchester City":"manchester-city","Arsenal":"arsenal","Crystal Palace":"crystal-palace","Liverpool":"liverpool","Southampton":"southampton","Hull City":"hull-city"},"CORES":{"Middlesbrough":["#00843D","#FFFFFF"],"Bolton Wanderers":["#00843D","#FFFFFF"],"Blackburn Rovers":["#5B2C83","#FFFFFF"],"Sheffield United":["#F2C230","#FFFFFF"],"Bristol City":["#111111","#FFFFFF"],"Coventry City":["#5B2C83","#FFFFFF"],"Cardiff City":["#E35205","#FFFFFF"],"Brentford":["#6C1D45","#FFFFFF"],"Ipswich":["#3EA6DD","#FFFFFF"],"Wolverhampton":["#E35205","#FFFFFF"],"Wrexham":["#0055A4","#FFFFFF"],"Bournemouth":["#111111","#FFFFFF"],"Watford":["#3EA6DD","#FFFFFF"],"Portsmouth":["#00843D","#FFFFFF"],"Millwall":["#16243A","#FFFFFF"],"Burnley":["#3EA6DD","#FFFFFF"],"Chelsea":["#00843D","#FFFFFF"],"Manchester United":["#DA291C","#FBE122"],"Swansea City":["#00843D","#FFFFFF"],"Stoke City":["#5B2C83","#FFFFFF"],"Aston Villa":["#670E36","#95BFE5"],"West Bromwich Albion":["#3EA6DD","#FFFFFF"],"Sunderland":["#16243A","#FFFFFF"],"West Ham":["#5B2C83","#FFFFFF"],"Tottenham":["#E35205","#FFFFFF"],"Stockport County":["#00843D","#FFFFFF"],"Charlton Athletic":["#00843D","#FFFFFF"],"Fulham":["#F2C230","#FFFFFF"],"Birmingham":["#0055A4","#FFFFFF"],"Leeds":["#00843D","#FFFFFF"],"Nottingham Forest":["#E35205","#FFFFFF"],"Norwich":["#16243A","#FFFFFF"],"Derby County":["#111111","#FFFFFF"],"Queens Park Rangers":["#5B2C83","#FFFFFF"],"Brighton":["#5B2C83","#FFFFFF"],"Leicester City":["#5B2C83","#FFFFFF"],"Everton":["#5B2C83","#FFFFFF"],"Newcastle":["#6C1D45","#FFFFFF"],"Manchester City":["#6CABDD","#1C2C5B"],"Arsenal":["#EF0107","#FFFFFF"],"Crystal Palace":["#0055A4","#FFFFFF"],"Liverpool":["#C8102E","#00B2A9"],"Southampton":["#111111","#FFFFFF"],"Hull City":["#111111","#FFFFFF"]},"vaga":"Liga Europa","liga":"premier-league","liga_nome":"Premier League","nota_fase":"Os times da Premier League e da Championship entram na 3ª fase, em janeiro. A chave parte dos 64 times dessa fase; os clubes das divisões de baixo que vão chegar até lá ainda estão nas fases anteriores e entram na conta como times genéricos.","final":"Final em Wembley, em maio de 2027, em jogo único.","ultimo_jogo":{"data":"2026-11-09","hora":"16:30","m":"Plymouth Parkway","v":"Berkhamsted","gm":2,"gv":1,"rodada":"Round 1"}};
 const T = D.times, ORD = D.ordem;
 const $ = s => document.querySelector(s);
 const SLUG = D.SLUG, SIGLA = D.SIGLA, CORES = D.CORES, ESC_DIR = 'escudos/';
@@ -759,7 +770,7 @@ document.addEventListener('mousemove', ev => {
     const svgOrig = sec.querySelectorAll('svg *');
     // captura na largura de celular (560 px) para a imagem preencher o story
     return html2canvas(sec, {backgroundColor: getComputedStyle(document.body).backgroundColor, scale: 2, useCORS: true, logging: false, windowWidth: 600,
-      ignoreElements: e => e.classList && (e.classList.contains('share') || e.classList.contains('fonte') || e.classList.contains('racectl')),
+      ignoreElements: e => e.classList && (e.classList.contains('share') || e.classList.contains('fonte') || e.classList.contains('racectl') || e.classList.contains('simlink')),
       onclone: doc => { const el = doc.getElementById(sec.id); el.style.width = '560px'; el.style.paddingTop = '8px';
         const okSrc = new Set([...sec.querySelectorAll('.esc img')].filter(i => i.complete && i.naturalWidth > 0).map(i => i.src));
         el.querySelectorAll('.esc img').forEach(i => { if (!okSrc.has(i.src)) i.remove(); });
